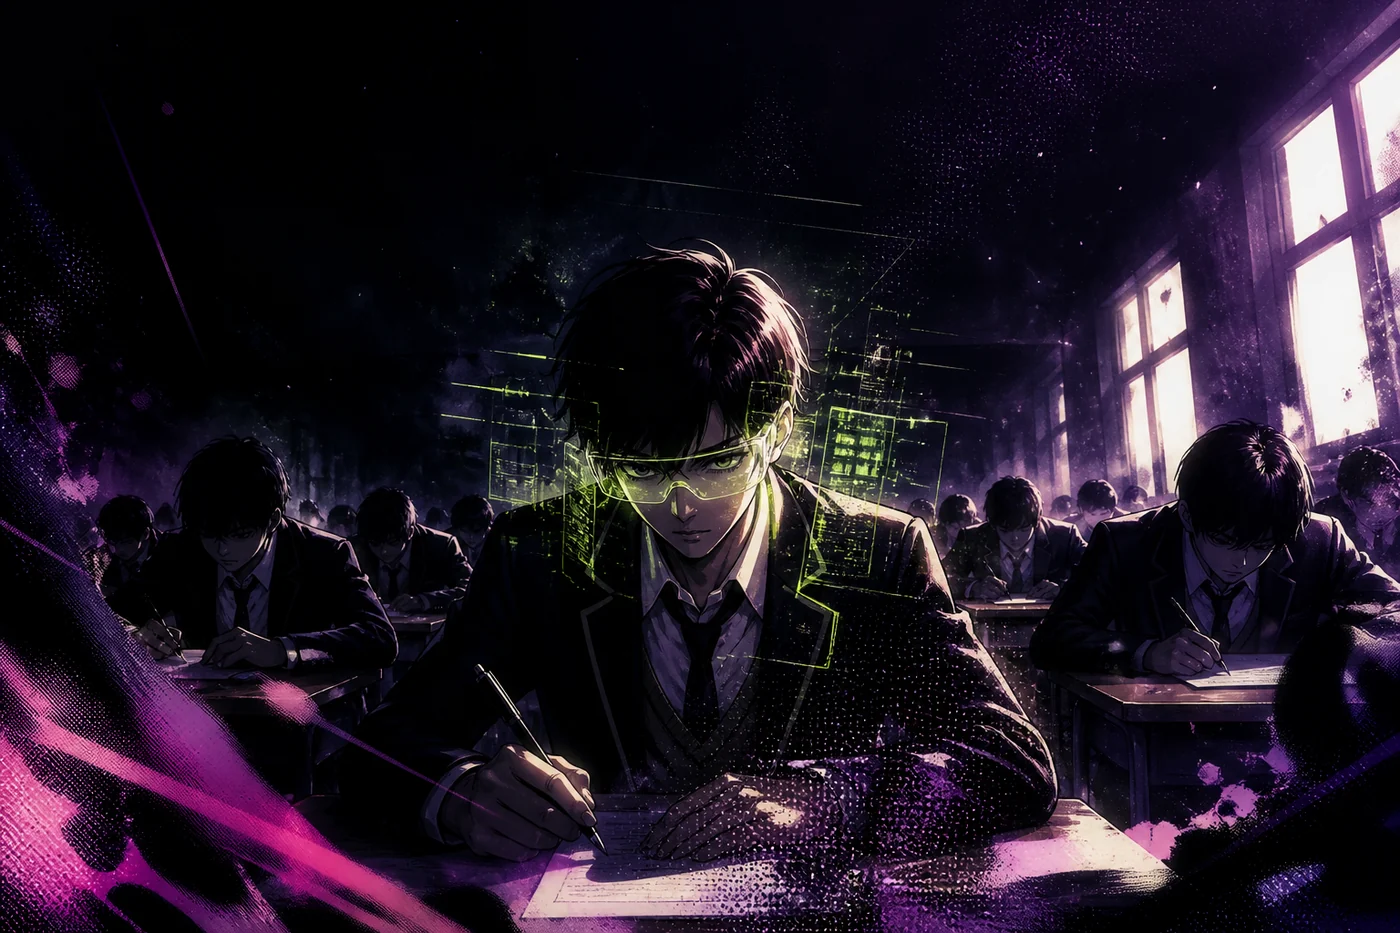
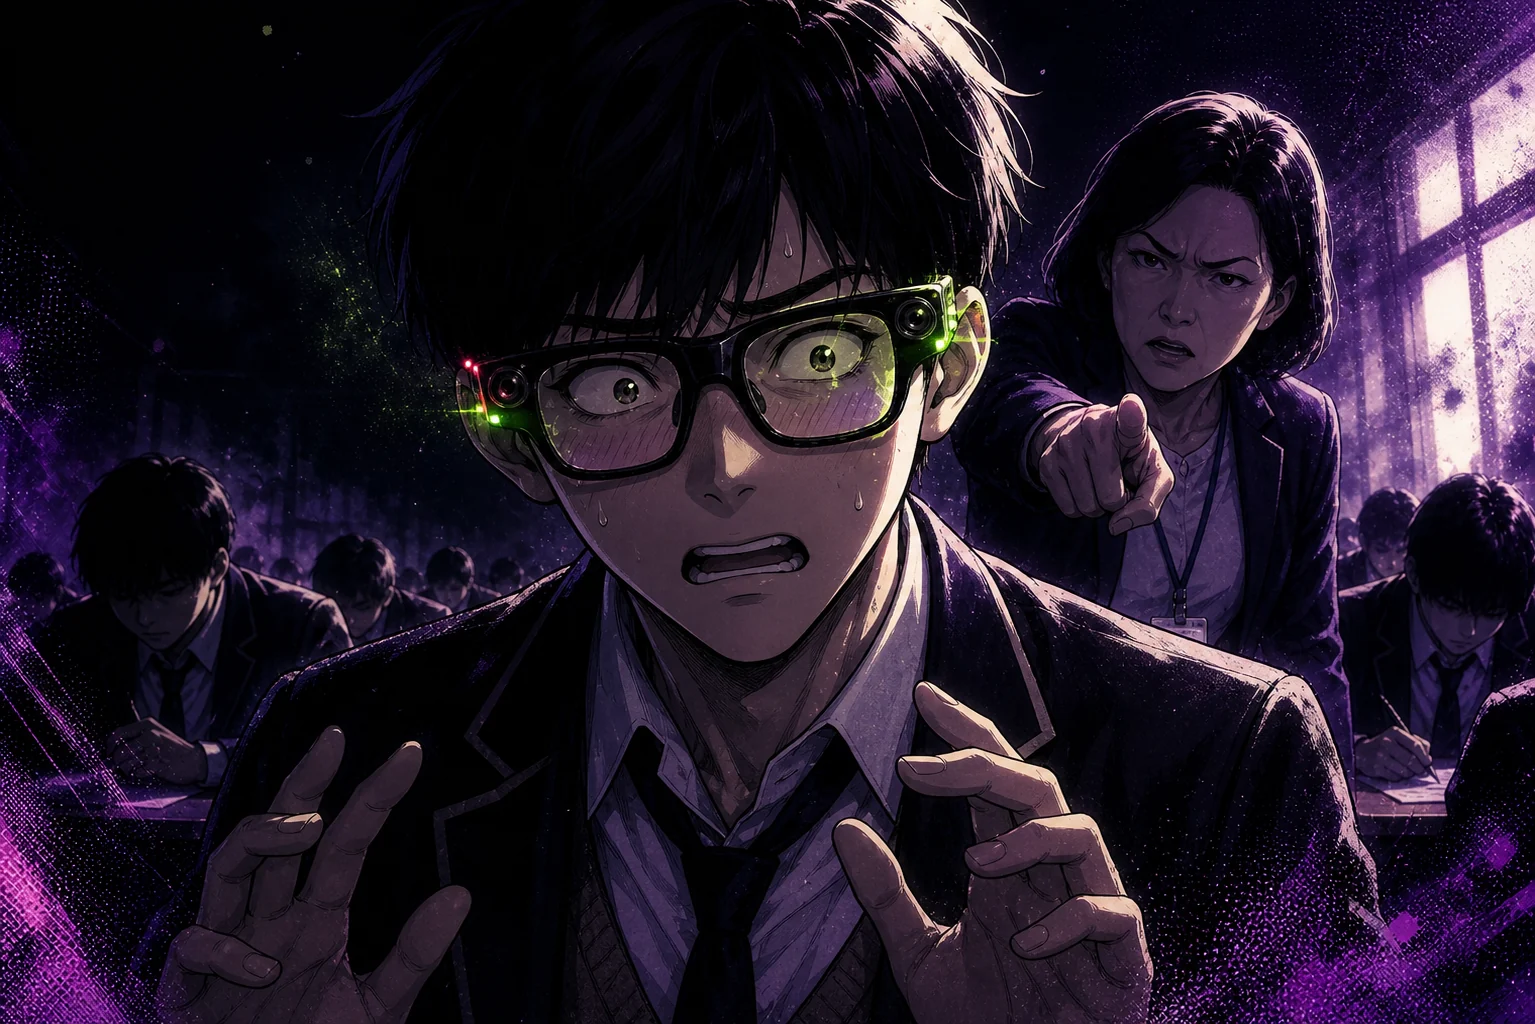
mind-test: AI 안경 일러스트 재생성(두꺼운 뿔테·카메라·LED, 커닝 적발에 감독관) — 표지·유형 카드·OG 교체, 히어로 락온 위치 조정

diff --git a/mind-test/assets/app.js b/mind-test/assets/app.js
@@ -14,7 +14,7 @@
       name: 'AI 안경 몰래 끼고 답 베끼는 놈',
       tagline: '요령 · 최신 기술 풀세팅러',
       quirk: '안경 각도만 계속 만진다',
-      accent: '#6b4bf6', tint: '#efeaff', img: 'assets/type-ai.webp',
+      accent: '#6b4bf6', tint: '#efeaff', img: 'assets/type-ai.webp?v=2',
       desc: ['공부는 안 했지만 세팅은 완벽하다.', '문제보다 안경 각도가 더 신경 쓰이는 하루.'],
       facts: [
         '공부는 안 했지만 정보 수집은 했다. 그것도 아주 치밀하게.',
@@ -24,10 +24,10 @@
       feats: [
         '시험지를 받자마자 손보다 목이 먼저 움직인다. 사방 정찰 3초.',
         '연필 2자루, 안경 1개, 배터리 87%. 완벽한 풀세팅.',
-        '감독관이 다가오면 갑자기 아주 정성스럽게 문제를 "읽는 척" 한다.',
+        '렌즈 옆 카메라에 초록불이 켜지는 순간, 이미 감독관이 등 뒤에 서 있다.',
         '모르는 문제가 나오면 오히려 안심한다. 렌즈에 답이 뜨는 순간을 기다린다.'
       ],
-      aiLine: '렌즈에 "정답입니다"가 뜨는 순간, 화면 한켠에 배터리 3% 경고가 깜박인다. 마지막 문제에서 안경이 꺼지고, 그 직전까지 본 정답이 감독관 뒤통수에 반사된다. 시험은 끝나고, 안경은 압수되고, 집에 전화가 간다.',
+      aiLine: '렌즈에 "정답입니다"가 뜨는 순간, 렌즈 옆 카메라의 초록불이 켜진다. 그 불빛을 감독관이 먼저 봤고, 배터리 3% 경고음까지 겹쳐 울린다. 시험은 끝나고, 안경은 압수되고, 집에 전화가 간다.',
       fantasy: ['guess', '내가 정보를, 쟤가 촉을. 손만 대면 만점 아니냐.'],
       nemesis: ['honest', '쟤가 팔로 답안지를 가리고 앉는다. 최악.']
     },
@@ -218,7 +218,7 @@
   /* ── 10문항 (교시 · 영역) ─────────────────── */
   var QUESTIONS = [
     {
-      tag: '시험 전날 밤', area: '준비 영역', img: 'assets/cover.webp', accent: '#6b4bf6', label: 'D-1 · 23:00',
+      tag: '시험 전날 밤', area: '준비 영역', img: 'assets/cover.webp?v=2', accent: '#6b4bf6', label: 'D-1 · 23:00',
       q: '시험 전날 밤, 나는?',
       opts: [
         { k: 'ai', t: 'AI 안경 충전부터 한다. 렌즈 닦고 배터리 100% 확인.' },
@@ -258,8 +258,8 @@
       ]
     },
     {
-      tag: 'AI 안경의 유혹 · 배터리 100%', area: '양심 영역', img: 'assets/type-ai.webp', accent: '#16a34a', label: 'CASE 05 · 유혹',
-      q: '책상 위에 AI 안경이 딱 놓여 있다. 렌즈에 답이 스르륵 떠오른다. 배터리 100%.',
+      tag: 'AI 안경의 유혹 · 배터리 100%', area: '양심 영역', img: 'assets/type-ai.webp?v=2', accent: '#16a34a', label: 'CASE 05 · 유혹',
+      q: '책상 위에 AI 안경이 딱 놓여 있다. 렌즈 옆 카메라에 초록불이 켜지고, 렌즈에 답이 스르륵 떠오른다. 배터리 100%.',
       opts: [
         { k: 'ai', t: '이건 하늘의 계시다. 렌즈에 답 뜨는 순간까지만 쓰자.' },
         { k: 'honest', t: '부정행위다. 절대 안 쓴다. 손으로 푼다.' },
@@ -308,7 +308,7 @@
       ]
     },
     {
-      tag: '한 문장', area: '총평 영역', img: 'assets/cover.webp', accent: '#6b4bf6', label: 'FIN · 정리',
+      tag: '한 문장', area: '총평 영역', img: 'assets/cover.webp?v=2', accent: '#6b4bf6', label: 'FIN · 정리',
       q: '이번 시험, 한 문장으로 정리하면?',
       opts: [
         { k: 'guess', t: '"촉이 좋았던 날이었다."' },
@@ -621,7 +621,7 @@
       '<span class="tcard-body">' +
         '<span class="tcard-feat-b">대표 유형</span>' +
         '<span class="tcard-txt"><span aria-hidden="true">🕶</span> ' + ai.name + '</span>' +
-        '<span class="tcard-sub">렌즈에 답 뜨는 순간 · 배터리 3% 경고</span>' +
+        '<span class="tcard-sub">카메라 2개 · 렌즈에 답 뜨는 순간 · 배터리 3% 경고</span>' +
       '</span></div>';
     var rest = ORDER.filter(function (k) { return k !== 'ai'; }).map(function (k) {
       var t = TYPES[k];

diff --git a/mind-test/index.html b/mind-test/index.html
@@ -21,14 +21,14 @@
 <meta property="og:image:secure_url" content="https://handobin9782-lang.github.io/mind-test/og.png">
 <meta property="og:image:width" content="1200">
 <meta property="og:image:height" content="630">
-<meta property="og:image:alt" content="AI 안경을 낀 학생이 어두운 시험장에 앉아 있는 표지 일러스트">
+<meta property="og:image:alt" content="두꺼운 검은 뿔테 AI 안경(카메라 렌즈·LED)을 끼고 커닝하다 감독관에게 걸린 학생 표지 일러스트">
 <meta name="twitter:card" content="summary_large_image">
 <meta name="twitter:title" content="시험 중 나는..? — 시험장 놈놈놈 테스트">
 <meta name="twitter:description" content="AI 안경 시대, 시험 중 나는 어떤 놈일까? 10문항으로 알아보는 8가지 시험장 생존 유형.">
 <meta name="twitter:image" content="https://handobin9782-lang.github.io/mind-test/og.png">
 <script async src="https://pagead2.googlesyndication.com/pagead/js/adsbygoogle.js?client=ca-pub-9910389156575302" crossorigin="anonymous"></script>
-<link rel="preload" as="image" href="assets/cover.webp">
-<link rel="stylesheet" href="assets/style.css?v=11">
+<link rel="preload" as="image" href="assets/cover.webp?v=2">
+<link rel="stylesheet" href="assets/style.css?v=12">
 <script type="application/ld+json">
 {
   "@context": "https://schema.org",
@@ -61,14 +61,14 @@
   <section class="screen is-on" id="screen-intro">
     <div class="intro">
       <figure class="cover">
-        <img src="assets/cover.webp" alt="어두운 시험장 한가운데, 네온빛 AI 안경을 쓴 학생이 시험지를 내려다보고 있다" width="1400" height="933" fetchpriority="high">
+        <img src="assets/cover.webp?v=2" alt="어두운 시험장에서 두꺼운 검은 뿔테 AI 안경(양쪽 카메라 렌즈와 빨강·초록 LED)을 끼고 커닝하다 감독관에게 딱 걸린 학생" width="1535" height="1024" fetchpriority="high">
         <span class="cover-fx" aria-hidden="true">
           <span class="cover-glow"></span>
           <span class="cover-lock"><i></i></span>
           <span class="cover-scan"></span>
         </span>
         <span class="cover-badge">2026 시험장 생존 보고서</span>
-        <span class="cover-hud"><i aria-hidden="true"></i>AI 안경 ON<span class="hud-more"> · 렌즈에 답 뜸</span></span>
+        <span class="cover-hud"><i aria-hidden="true"></i>AI 안경 ON · 카메라 작동 중<span class="hud-more"> · 렌즈에 답 뜸</span></span>
         <figcaption>AI 안경 시대 · 시험장 생존 유형 테스트</figcaption>
       </figure>
 
@@ -80,7 +80,6 @@
         <em class="hero-vs">vs</em>
         <span class="hero-rest">맨눈으로 버티는 놈</span>
       </p>
-
       <h1 class="title">시험 중 나는..?</h1>
       <p class="subtitle">— 시험장 <b>놈놈놈</b> 테스트 —</p>
       <p class="lead">
@@ -280,6 +279,6 @@
 <div class="toast" id="toast" role="status" aria-live="polite"></div>
 <canvas id="cardCanvas" width="1080" height="1920" hidden></canvas>
 
-<script src="assets/app.js?v=9"></script>
+<script src="assets/app.js?v=10"></script>
 </body>
 </html>

diff --git a/mind-test/assets/style.css b/mind-test/assets/style.css
@@ -83,7 +83,7 @@ main{max-width:640px; margin:0 auto; padding:6px 18px 40px; min-height:60vh}
   box-shadow:0 0 0 1px rgba(130,92,255,.55), 0 0 44px -12px rgba(107,75,246,.95), 0 24px 40px -28px rgba(9,6,20,.9);
   isolation:isolate;
 }
-.cover img{display:block; width:100%; height:auto; aspect-ratio:1536/1024; object-fit:cover}
+.cover img{display:block; width:100%; height:auto; aspect-ratio:1535/1024; object-fit:cover}
 .cover figcaption{
   position:absolute; left:0; right:0; bottom:0; padding:26px 16px 12px;
   font-size:10.5px; font-weight:800; letter-spacing:.24em; color:rgba(255,255,255,.72);
@@ -98,19 +98,19 @@ main{max-width:640px; margin:0 auto; padding:6px 18px 40px; min-height:60vh}
 /* 네온 AI 안경 강조 (표지 HUD) */
 .cover-fx{position:absolute; inset:0; pointer-events:none; overflow:hidden; z-index:1}
 .cover-glow{
-  position:absolute; left:50.5%; top:50.5%; width:27%; aspect-ratio:4.4/1; transform:translate(-50%,-50%);
+  position:absolute; left:46%; top:36%; width:40%; aspect-ratio:3.4/1; transform:translate(-50%,-50%);
   border-radius:50%;
-  background:radial-gradient(ellipse at center, rgba(170,255,235,.3) 0%, rgba(140,100,255,.18) 58%, rgba(130,92,255,0) 80%);
+  background:radial-gradient(ellipse at center, rgba(170,255,235,.26) 0%, rgba(140,100,255,.16) 60%, rgba(130,92,255,0) 82%);
   filter:blur(3px); animation:aiGlow 3.6s ease-in-out infinite;
 }
 .cover-lock{
-  position:absolute; left:50.5%; top:50.5%; width:21%; aspect-ratio:3.1/1; transform:translate(-50%,-50%);
+  position:absolute; left:46%; top:36%; width:37%; aspect-ratio:3.05/1; transform:translate(-50%,-50%);
   animation:aiLock 3.6s ease-in-out infinite;
-  filter:drop-shadow(0 0 5px rgba(158,249,230,.95));
+  filter:drop-shadow(0 0 5px rgba(158,249,230,.9));
 }
 .cover-lock i{position:absolute; inset:0; display:block}
 .cover-lock::before, .cover-lock::after, .cover-lock i::before, .cover-lock i::after{
-  content:""; position:absolute; width:11px; height:11px; border:2px solid #9ef9e6;
+  content:""; position:absolute; width:13px; height:13px; border:2px solid #9ef9e6; opacity:.85;
 }
 .cover-lock::before{left:0; top:0; border-right:0; border-bottom:0; border-radius:4px 0 0 0}
 .cover-lock::after{right:0; top:0; border-left:0; border-bottom:0; border-radius:0 4px 0 0}
